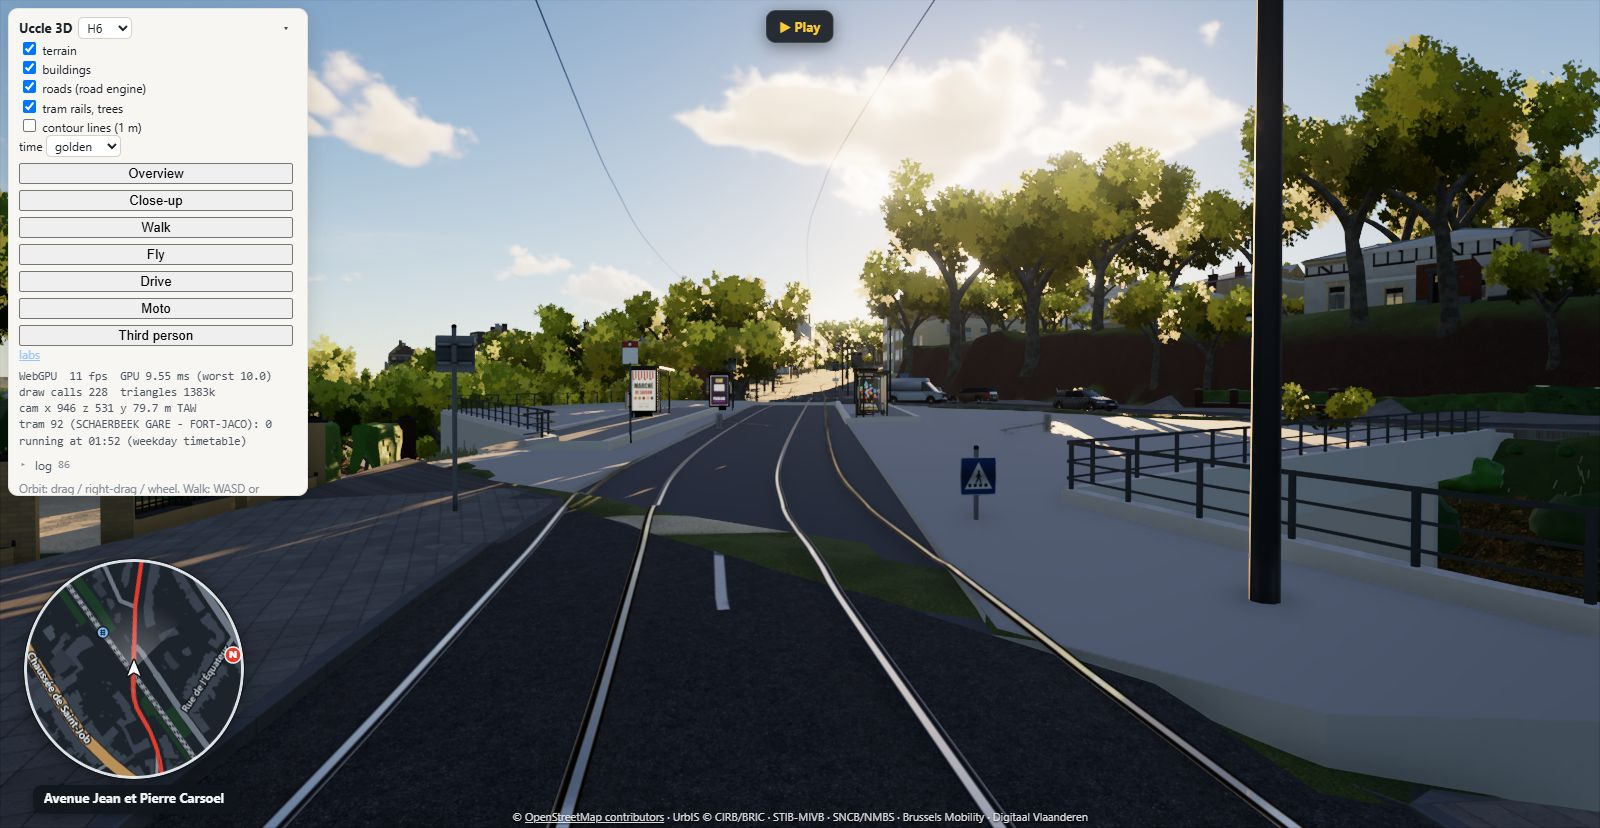
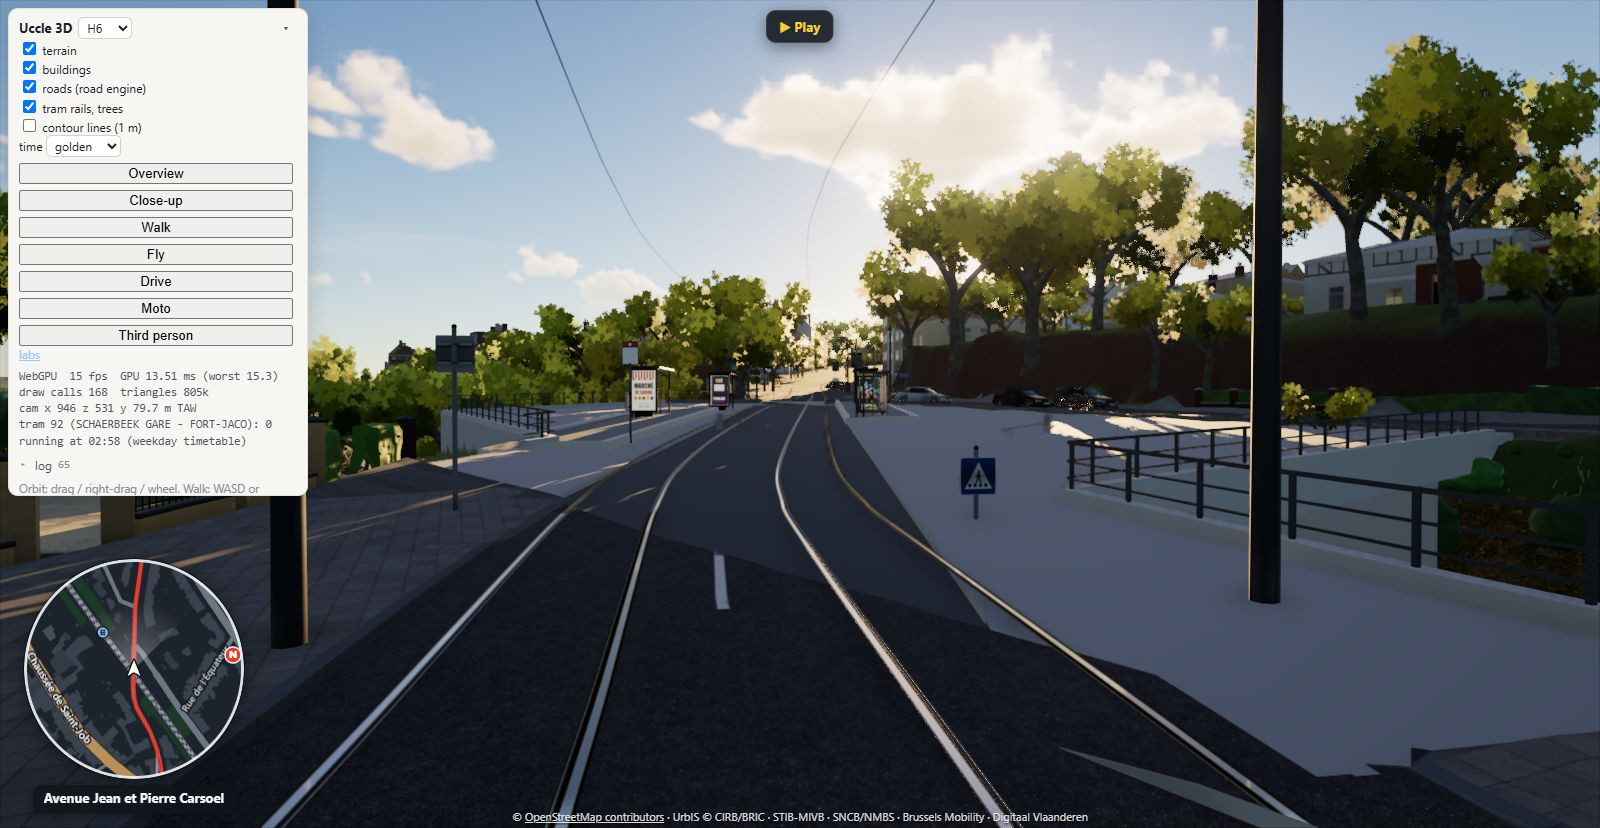
citydefects A: the ground inside the Carsoel deck kept under its top, also after the road stage's terrain weld (green terrain strips at the deck's east end, seen in the browser)

diff --git a/viewer/tileWorker.bundle.js b/viewer/tileWorker.bundle.js
@@ -11443,6 +11443,20 @@ function deckUnderCut(decks, grids, hdr) {
   const { x0, z0, cols, rows, step } = hdr;
   let moved = 0;
   for (const d of decks || []) {
+    if (!d.plan) continue;
+    {
+      const c02 = Math.max(0, Math.floor((d.box[0] - x0) / step)), c12 = Math.min(cols - 1, Math.ceil((d.box[2] - x0) / step));
+      const r02 = Math.max(0, Math.floor((d.box[1] - z0) / step)), r12 = Math.min(rows - 1, Math.ceil((d.box[3] - z0) / step));
+      for (let r = r02; r <= r12; r++) for (let c = c02; c <= c12; c++) {
+        const x = x0 + c * step, z = z0 + r * step;
+        if (!inRing(d.plan.ring, x, z)) continue;
+        const top = profY(d, alongLine(d, x, z)) - PLAN.sink - UNDER_STREET - 0.12, k = r * cols + c;
+        for (const G2 of grids) if (G2[k] > top) {
+          G2[k] = top;
+          moved++;
+        }
+      }
+    }
     const U = d.plan?.under;
     if (!U) continue;
     const [cx, cz] = U.c, [ux, uz] = U.u, vx = -uz, vz = ux;
@@ -15145,6 +15159,7 @@ async function buildTileData(entry, base) {
     surfaceData: rd.surfaceData,
     inventory: rd.inventory ?? null
   };
+  netInfo.deckUnder2 = deckUnderCut(osmBridges.decks, [hm.y, hm.orig], tHdr);
   const net = rd.net;
   const sg = rd.surfaceData?.grid;
   const measuredAt = sg ? (x, z) => {

diff --git a/viewer/streets/bridgeDecks.js b/viewer/streets/bridgeDecks.js
@@ -383,6 +383,19 @@ export function deckUnderCut(decks, grids, hdr) {
   const { x0, z0, cols, rows, step } = hdr;
   let moved = 0;
   for (const d of decks || []) {
+    if (!d.plan) continue;
+    // (browser check 2026-11-16: at the ring's ends the bank's DTM stood up to 10 cm OVER the deck top tucked under the
+    // street: green terrain strips through the asphalt) the ground inside the ring kept under the deck's top
+    {
+      const c0 = Math.max(0, Math.floor((d.box[0] - x0) / step)), c1 = Math.min(cols - 1, Math.ceil((d.box[2] - x0) / step));
+      const r0 = Math.max(0, Math.floor((d.box[1] - z0) / step)), r1 = Math.min(rows - 1, Math.ceil((d.box[3] - z0) / step));
+      for (let r = r0; r <= r1; r++) for (let c = c0; c <= c1; c++) {
+        const x = x0 + c * step, z = z0 + r * step;
+        if (!inRing(d.plan.ring, x, z)) continue;
+        const top = profY(d, alongLine(d, x, z)) - PLAN.sink - UNDER_STREET - 0.12, k = r * cols + c;
+        for (const G of grids) if (G[k] > top) { G[k] = top; moved++; }
+      }
+    }
     const U = d.plan?.under;
     if (!U) continue;
     const [cx, cz] = U.c, [ux, uz] = U.u, vx = -uz, vz = ux;

diff --git a/viewer/tileData.js b/viewer/tileData.js
@@ -340,6 +340,8 @@ export async function buildTileData(entry, base) {
   netInfo.deckAbutments = abutCells; netInfo.deckUnder = underCells;
   const road = { parts: rd.parts, atlas: rd.atlas, carvedCells: rd.carvedCells, clampedCells: rd.clampedCells, triangles: rd.triangles, surfaceStats: rd.surfaceStats,
     surfaceData: rd.surfaceData, inventory: rd.inventory ?? null };
+  // (again after the road stage: its terrain weld brought the bank back up over a plan deck's tucked ends)
+  netInfo.deckUnder2 = deckUnderCut(osmBridges.decks, [hm.y, hm.orig], tHdr);
   const net = rd.net;              // the live engine network (stays in the worker: drive colliders)
   // (x, z) -> true where a measured street surface is drawn (a plan deck's top tucks under it: bridgeDecks.js)
   const sg = rd.surfaceData?.grid;
